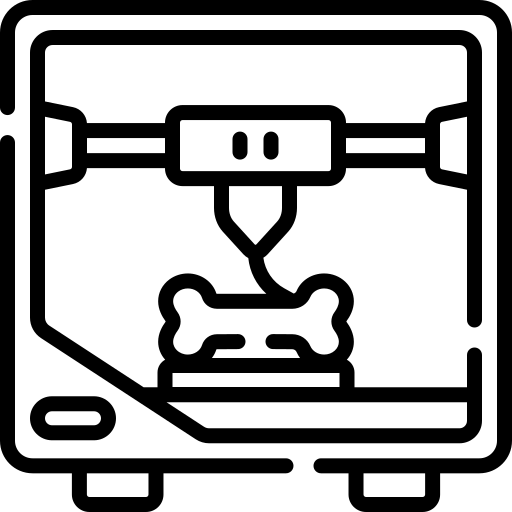
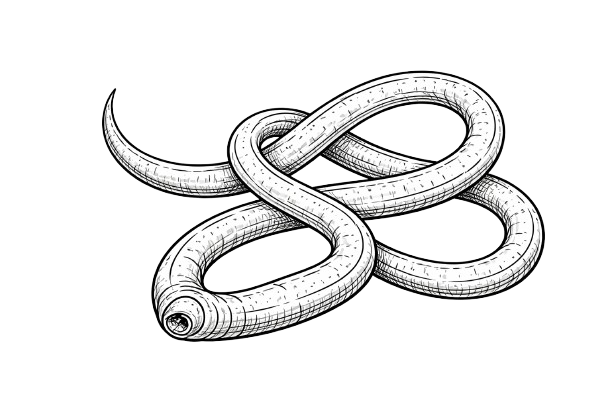
aa

diff --git a/index.html b/index.html
@@ -163,7 +163,7 @@
 						<p class="text-center font-weight-bold"><i>Platelmintos</i></p> 
 						<p class="text text-justify">A eletrônica não são apenas placas complexas de circuito minusculas, é possível desenvolver dispositivos como aparatos mais simples e, com a solda, consertar e criar diversos desses aparatos eletrônicos com mais facilidade.</p>
 					</div>
-				</div>
+				</div><br><br><br>
 				
 				<div class="col-sm-4">
 					<div class="hab">
@@ -171,7 +171,7 @@
 						<p class="text-center font-weight-bold"><i>Anelida</i></p>
 						<p class="text text-justify">Com ela é possível quase tudo, desde automação em geral, usando o Arduino, até a confecção de protótipos e robôs, seja em miniatura para teste, demonstração ou em escala norma, além de ser um diferencial no ensino dos jovens.</p>
 					</div>
-				</div>
+				</div><br><br><br>
 				
 				<div class="col-sm-4">
 					<div class="hab">
@@ -179,7 +179,7 @@
 						<p class="text-center font-weight-bold"><i>Nematoda</i></p>
 						<p class="text text-justify">A modelagem 3D permite a criação de quase todo tipo de objeto e até mesmo estruturas mais complexas, tornando possível fazer a sua imaginação se tornar realidade, o que perite o desenvolver de quase todos seus desenhos.</p>
 					</div>
-				</div>
+				</div><br><br><br>
 			
 			</div>
 		</div>

diff --git a/index.css b/index.css
@@ -10,7 +10,7 @@
 }
 .text{
 	font-family: nunito;
-	font-size: 16px;
+	font-size: 14px;
 	letter-spacing: 0.9px;
 }
 
